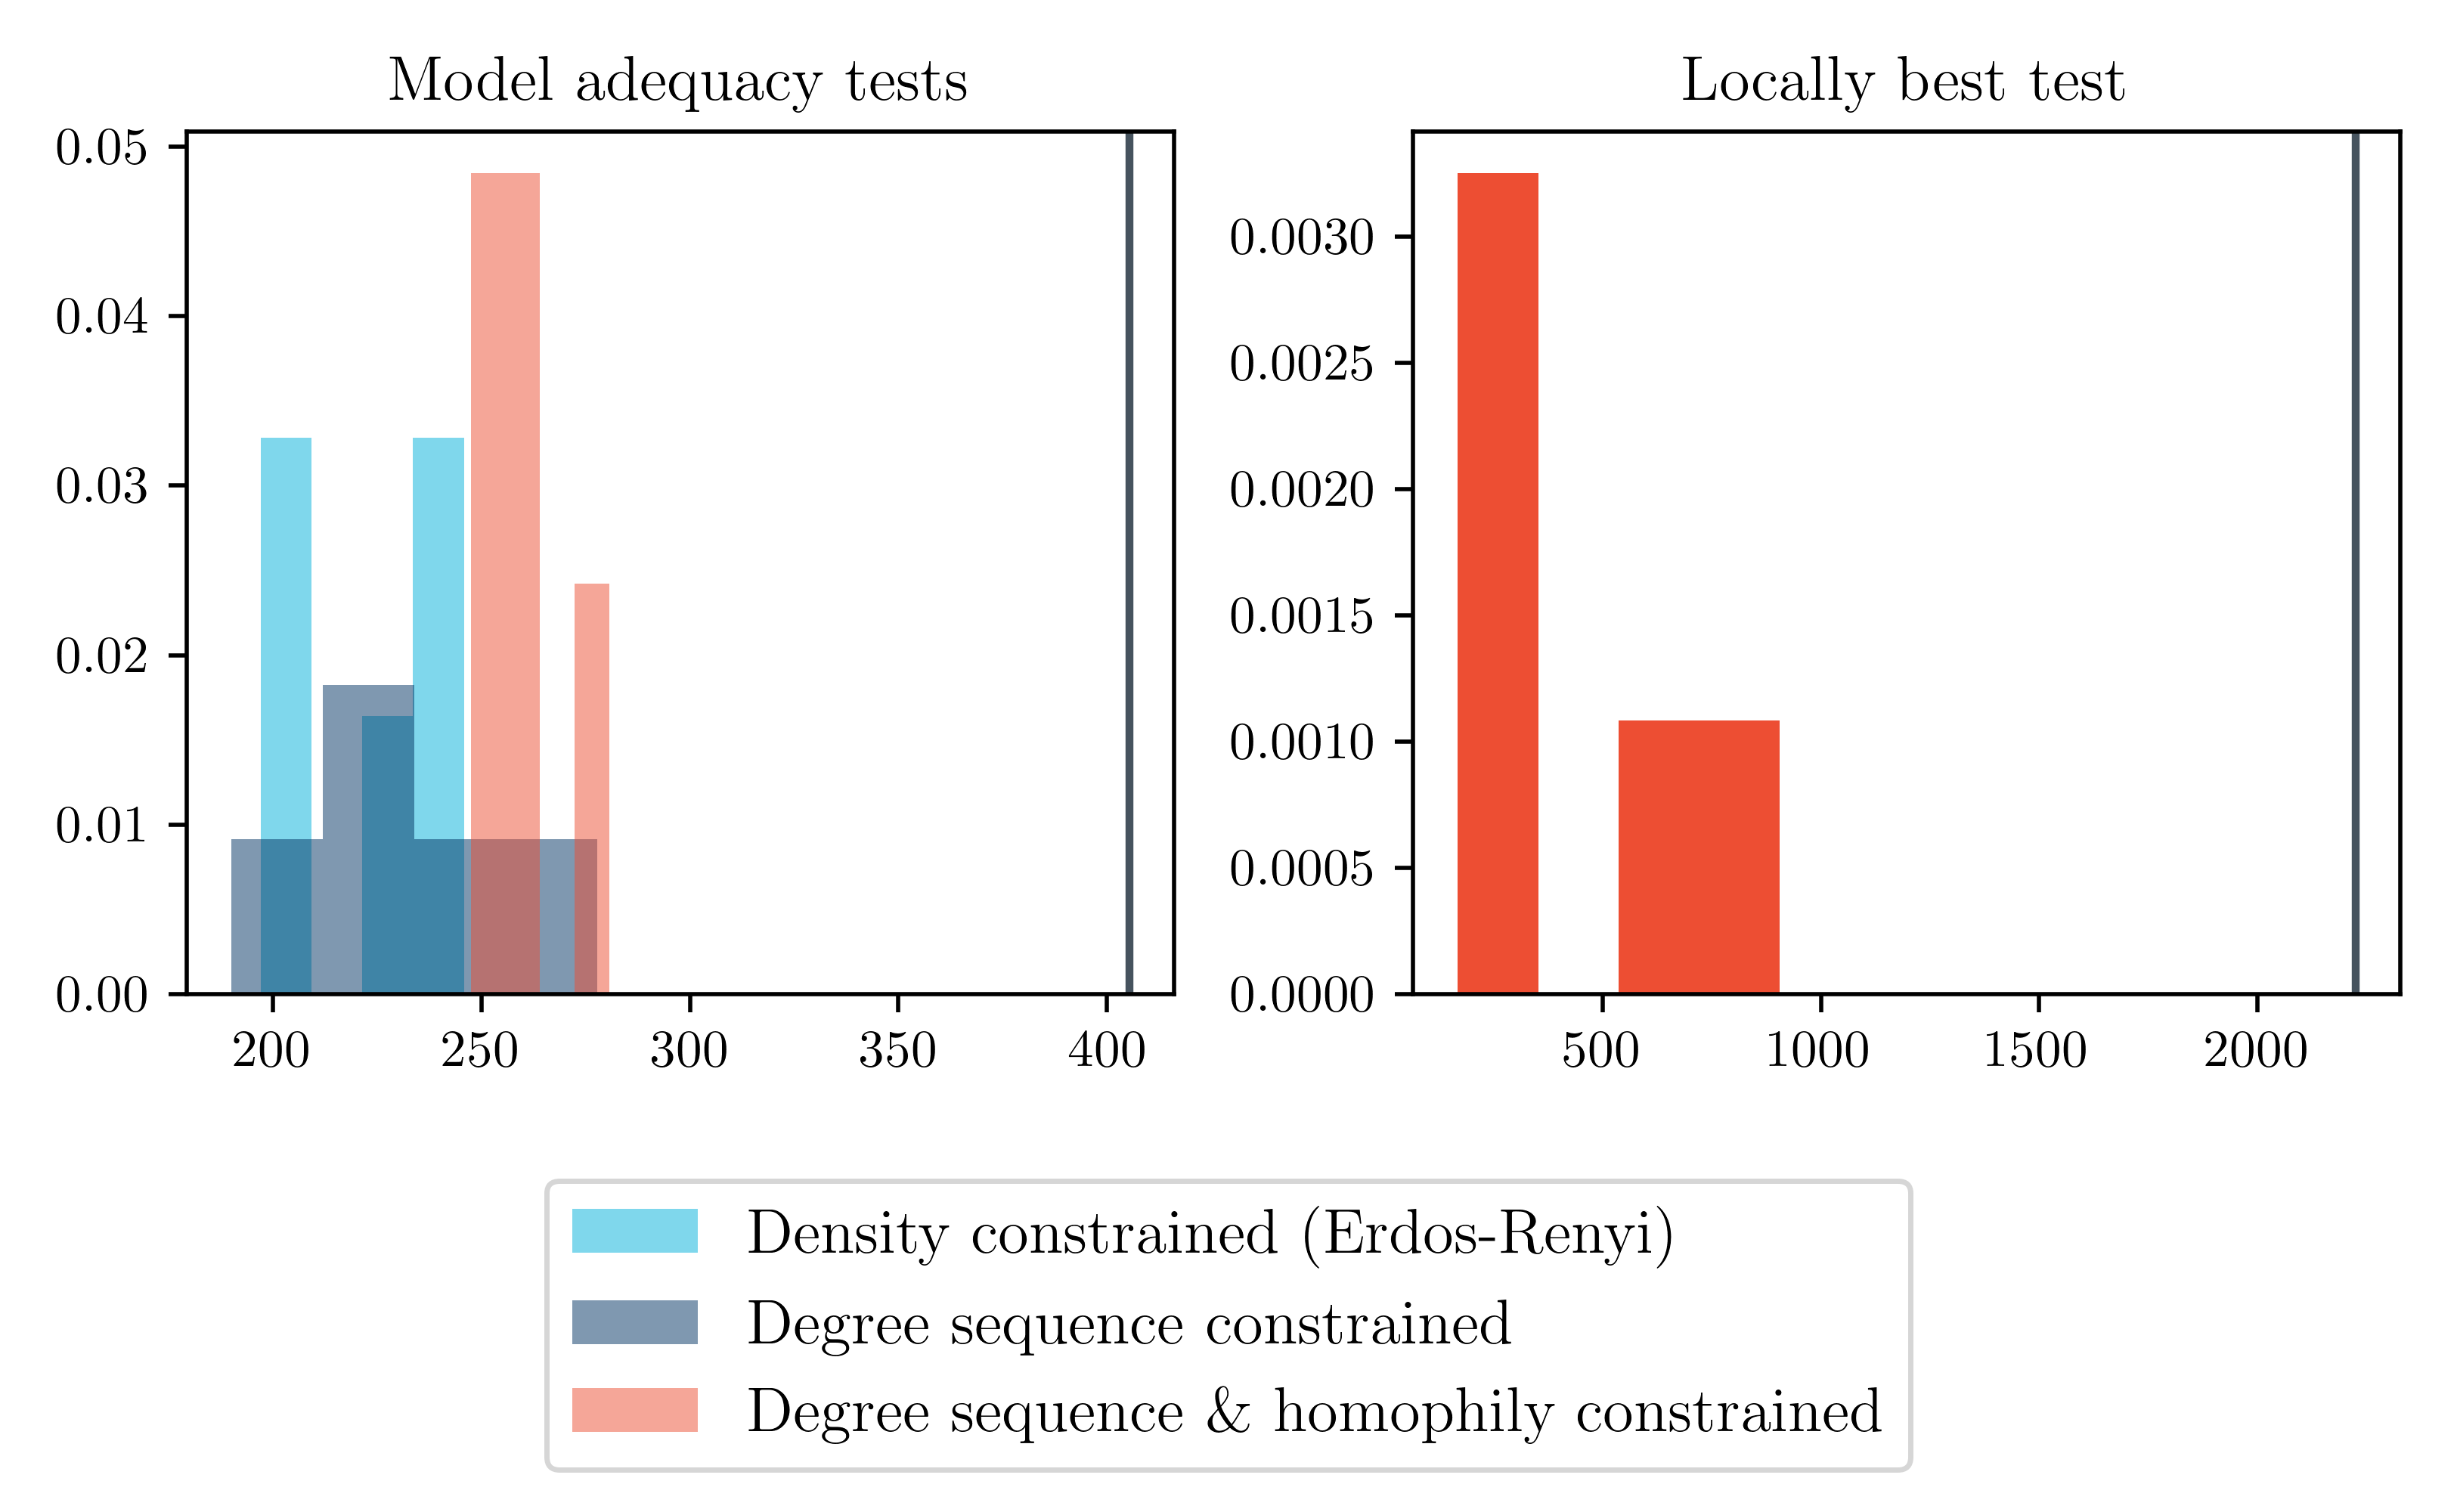
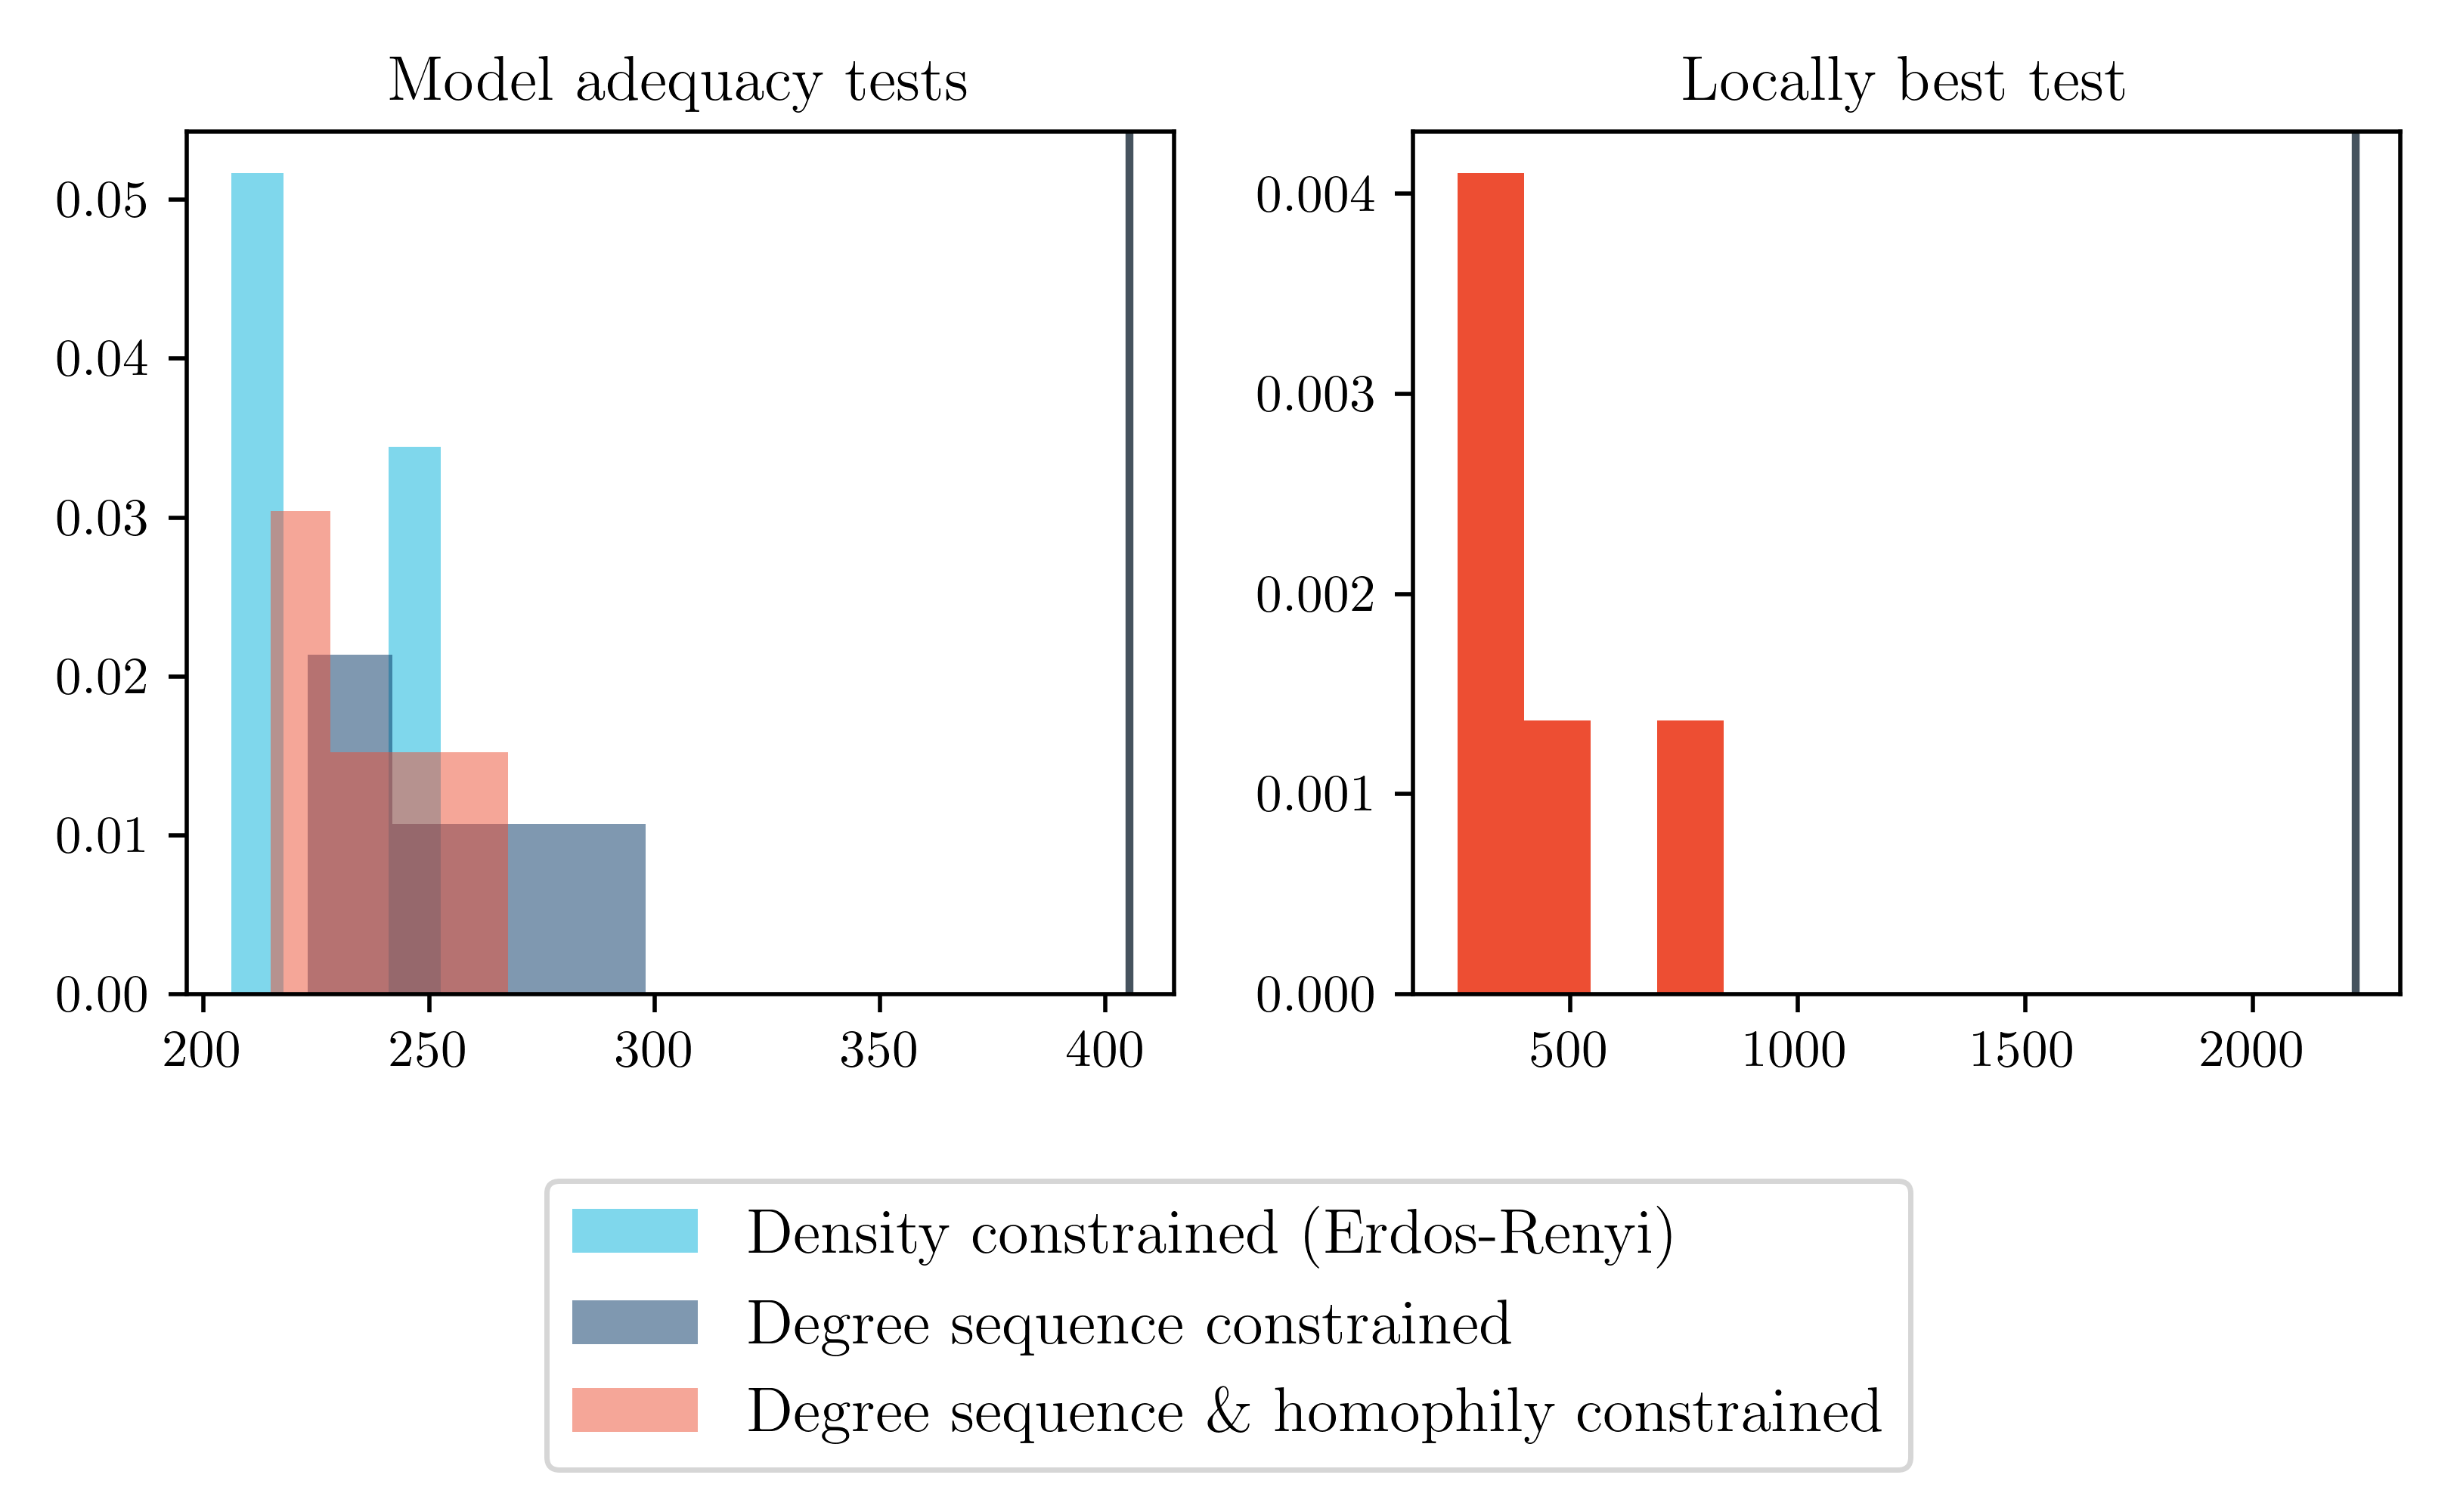
good

diff --git a/readme.md b/readme.md
@@ -1,36 +1,40 @@
 
 ## Overview
-The code in this package reproduces the figures and empirical illustration included in the the paper "An optimal test for strategic interaction in social and economic network formation between heterogeneous agents" by Andrin Pelican and Bryan S. Graham. ArXiv version of the paper is available [here](https://arxiv.org/abs/2009.00212). The package also includes a tutorial overview of the methods developed in the paper to facilitate adoption my interested researchers.
+The code in this package reproduces the figures and empirical illustration included in the the paper "An optimal test for strategic interaction in social and economic network formation between heterogeneous agents" by Andrin Pelican and Bryan S. Graham. The arXiv version of the paper is available [here](https://arxiv.org/abs/2009.00212). The package also includes a tutorial overview of the methods developed in the paper to facilitate adoption by interested researchers.
 
 ## Data availability and provenance statement
-The "Data" folder includes the Nyakotote network data used in the empirical illustration. Our estimation sample is a (small) extract of the data collected by Joachim De Weerdt for his dissertation research. This research is featured in De Weerdt (2004, _Insurance Against Poverty_) and several other publications (e.g., Comola and Fafchamps, 2014). We are secondary data users. We obtained raw data files directly from Joachim by e-mail request. Our analysis uses only a small subset of the full dataset. These network data appear frequently in the development economics literature as an illustrative/pro-typical village risk-sharing network (e.g., Comola and Fafchamps, 2014).
+The "Data" folder includes the Nyakotote network data used in the empirical illustration. Our estimation sample is a (small) extract of the data collected by Joachim De Weerdt for his dissertation research. This research is featured in De Weerdt (2004, _Insurance Against Poverty_) and several other publications (e.g., Comola and Fafchamps, 2014). We are secondary data users. We obtained raw data files directly from Joachim by e-mail request. Our analysis uses only a small subset of the full dataset. These network data appear frequently in the development economics literature as an illustrative/proto-typical village risk-sharing network (e.g., Comola and Fafchamps, 2014).
 
 Researchers interested in the raw data files will need to contact [Joachim](https://www.ifpri.org/profile/joachim-de-weerdt/) directly. Some of Joachim's source data files are also available in [this GitHub repository](https://github.com/bryangraham/short_courses/tree/master).
 
 ## Statement about Rights
 We certify that the author(s) of the manuscript have legitimate access to and permission to use the data used in this manuscript.
 
-We certify that the author(s) of the manuscript have documented permission to redistribute/publish the data contained within this replication package.
+We certify that the author(s) of the manuscript have documented permission to redistribute/publish the data extracts contained within this replication package.
 
 ## Summary of Availability
 All data used in our paper is included in this archive. We use two data files. The file _Nyakatoke_ArcList.npy_ is a list of all arcs in the Nyakatoke network. The file _Nyakatoke_AttrDict.npy_ includes the household attributes used in our analysis. These files are binary "pickled" Python numpy arrays. 
 
 ## Computational requirements
-Our analysis was executed in Python 3. Core modules used include _ugd_, _numpy_, _python-igraph_ and _cairocffi_. Other modules, such as _itertools_ are relatively standard. _igraph_ (which requires _cairocffi_) is used to render many of the network visualizations appear in the paper. The Nykatoke graph appears as Figure 3 in the paper. We used the "mds" layout algorithm included in _igraph_. Due to _igraph_ updates (e.g., the source code used to solve required eigenvalue problems), it is possible that the network will render slightly differently than what appears in the paper. Such differences have no bearing on our substantive analysis.
+Our analysis was executed in Python 3. Core modules used include _ugd_, _numpy_, _python-igraph_ and _cairocffi_. Other modules, such as _itertools_, are relatively standard. _igraph_ (which requires _cairocffi_) is used to render many of the network visualizations appearing in the paper.
 
-Many users may find it easiest to create a dedicated python environment in order to run our code. Details on how to do this are provided in the included Python Jupyter notebooks
+The Nykatoke graph appears as Figure 3 in the paper. We used the "mds" layout algorithm included in _igraph_ to produce this visualization. Due to _igraph_ updates (e.g., the source code used to solve required eigenvalue problems), it is possible that the replication code will render the network slightly differently than what appears in the paper. Such differences have no bearing on our substantive analysis.
+
+Many users may find it easiest to create a dedicated python environment in order to run our code. Details on how to do this are provided in the included Python Jupyter notebooks. 
 
 ## Memory, Runtime, Storage Requirements
 
-Users should have little problem run our code on a modern laptop computer. It is possible that simulating the null distributions in the empirical illstrative could take a few hours, depending on the user's machine. We first ran this code over six years ago on a desktop that was half a dozen years old at the time.
+Users should have little problem running our code on a modern laptop computer. It is possible that simulating the null distributions in the empirical illstrative could take a few hours, depending on the user's machine. We first ran this code over six years ago on a desktop that was half a dozen years old at the time. Modern machines may be considerably faster. All code blocks that are computationally intensive will provide an estimate of total runtime at the outset; note it may take a few minutes to compute this runtime estimate.
 
 ## Description of programs/code
  
 In the main directory is this readme file and two Python Juypter Notebooks.
 
-The _Testing_for_Strategic_Interaction_Notebook_1.ipynb_ notebook replicates the technical figures in the paper, while the _Testing_for_Strategic_Interaction_Notebook_2.ipynb_ notebook replicates the Nyakatoke empirical results and figures.
+The **Testing_for_Strategic_Interaction_Notebook_1.ipynb** notebook replicates the technical figures in the paper, while the **Testing_for_Strategic_Interaction_Notebook_2.ipynb** notebook replicates the Nyakatoke empirical results and figures.
 
 The second notebook includes detailed instructions on how to set-up a Python virtual environment so that the code runs properly. A few specialized packages are called, including the "ugd one". Please read the markdown boxes in the notebooks for detailed instructions and alternative approaches to setting up the needed Python environment.
+
+Good luck! Although we are not able to provide bespoke support for this replication package (or at least any guarantees of such support), we welcome comments and bug reports.
 
 ## References
 